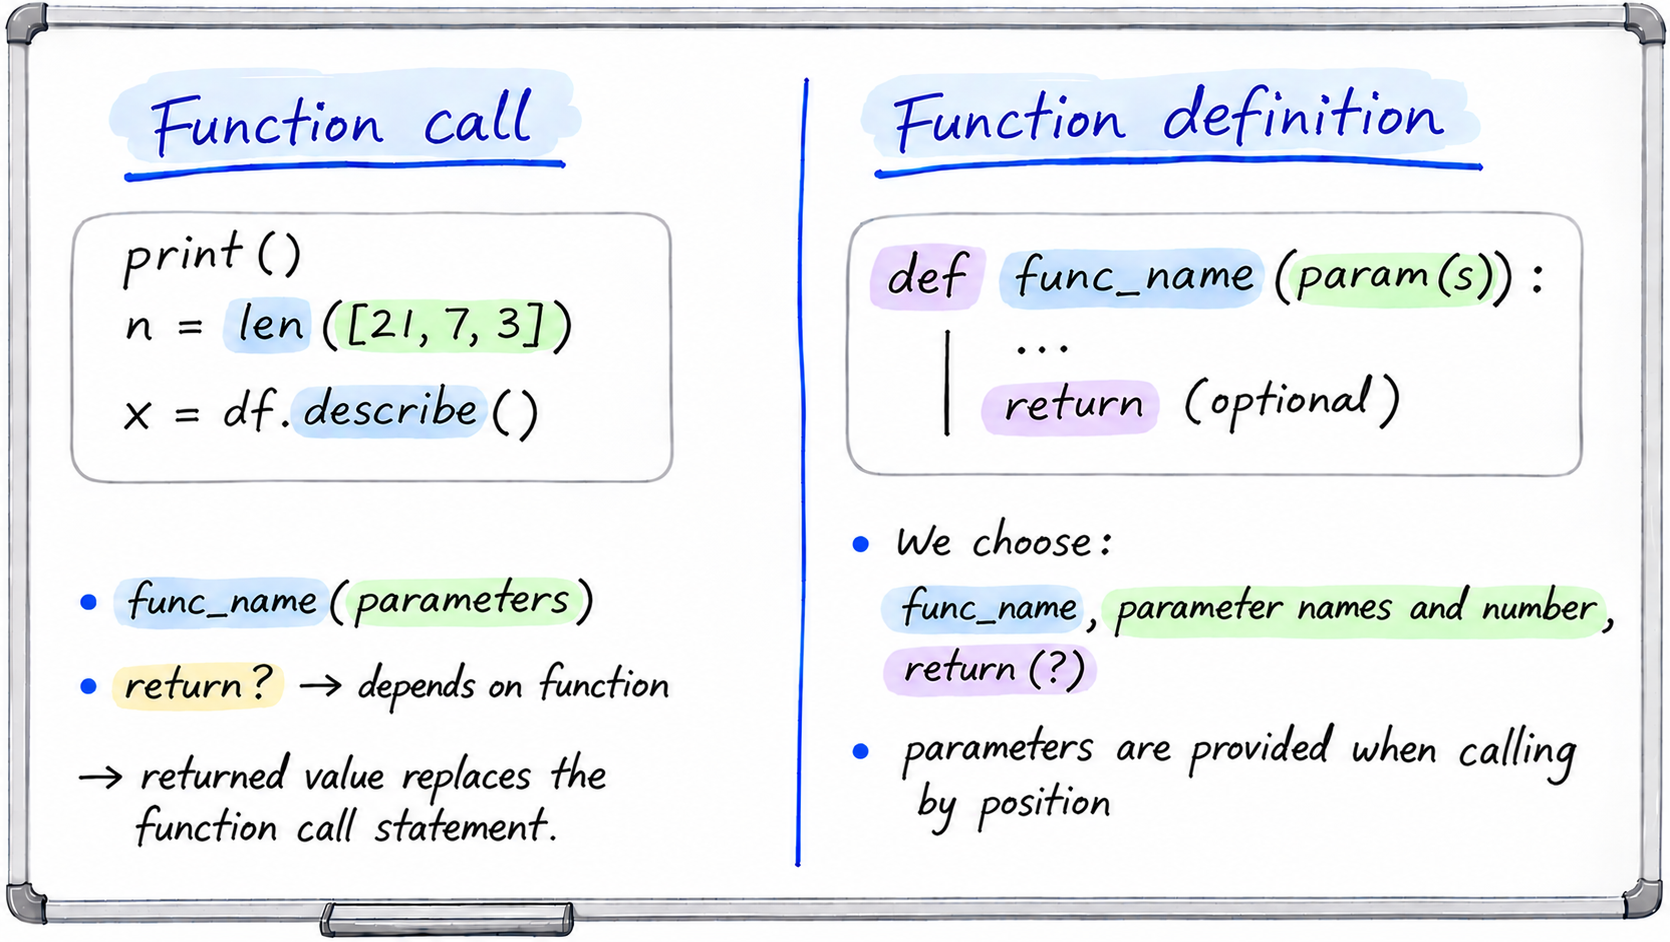
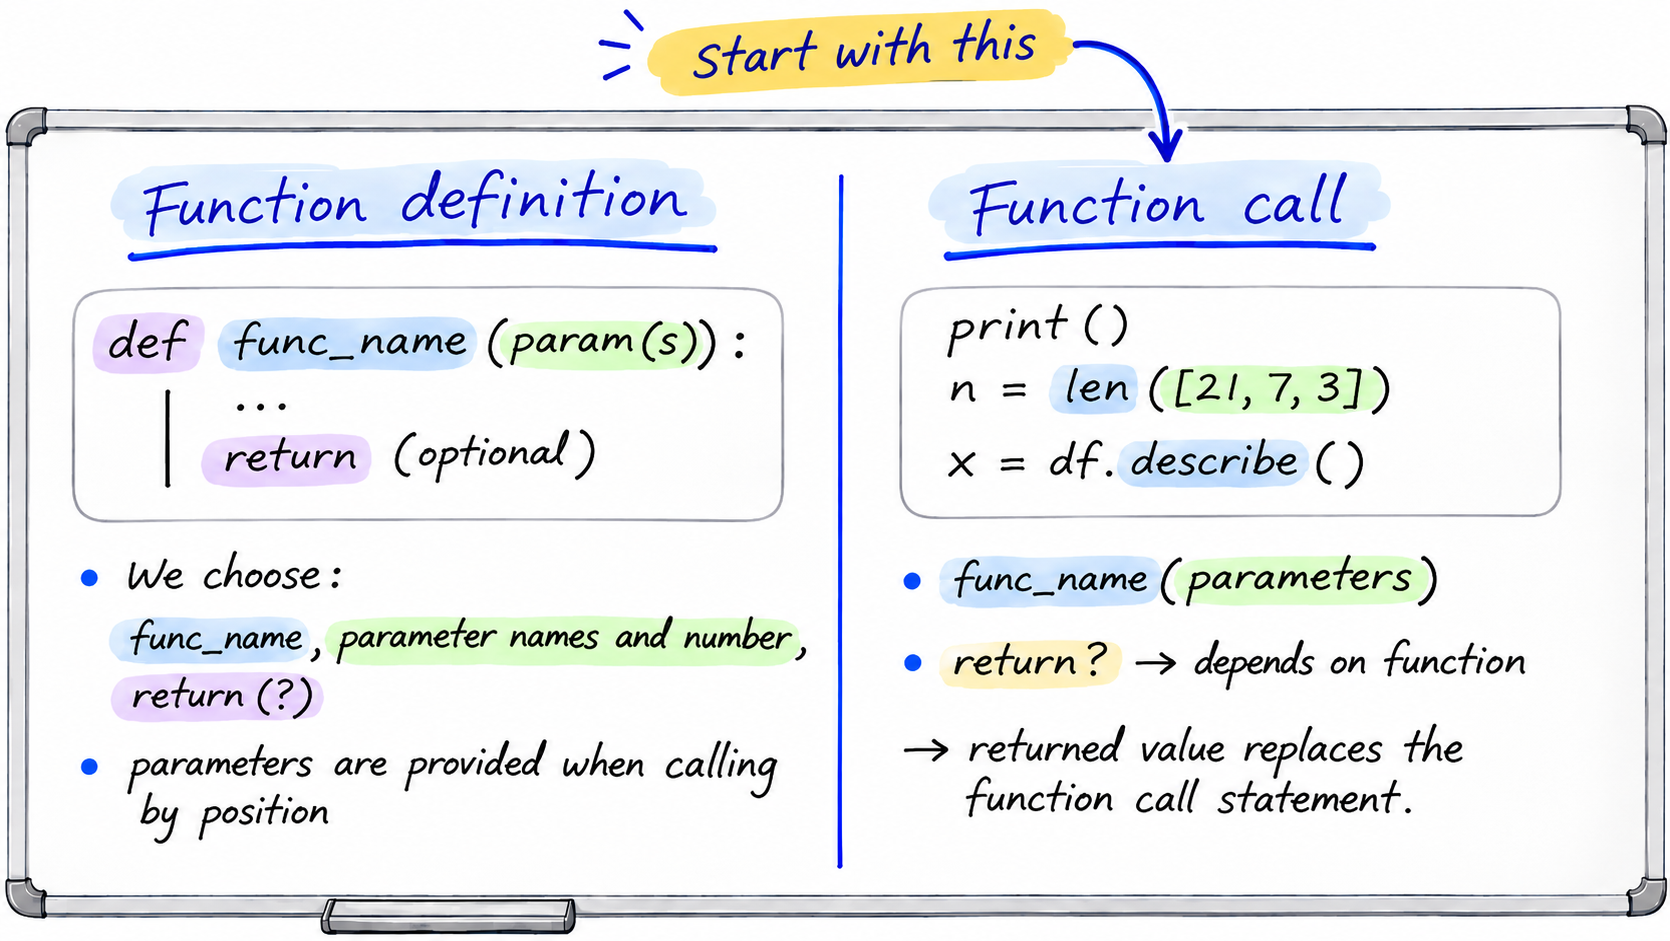
revisions

diff --git a/materials/session_10/multiply_list_values.py b/materials/session_10/multiply_list_values.py
@@ -1,10 +1,9 @@
-def multi(x):
-    n = len(x)
-    prodX = 1.0
-    for i in range(n):
-        prodX = prodX * x[i]
-    return prodX
+def multiply(list_of_numbers):
+    product = 1
+    for value in list_of_numbers:
+        product = product * value
+    return product
 
 
 li = [8, 2, 3, -1, 7, 5, 6]
-print("Product =", multi(li))
+print("Product =", multiply(li))

diff --git a/materials/session_10/count_digits.py b/materials/session_10/count_digits.py
@@ -1,9 +1,10 @@
+# Solution alternative 1
 def count_digitsa(number):
     snum = str(number)
     count = len(snum)
     return count
 
-
+# Solution alternative 2
 def count_digitsb(number):
     count = 0
     while number > 0:
